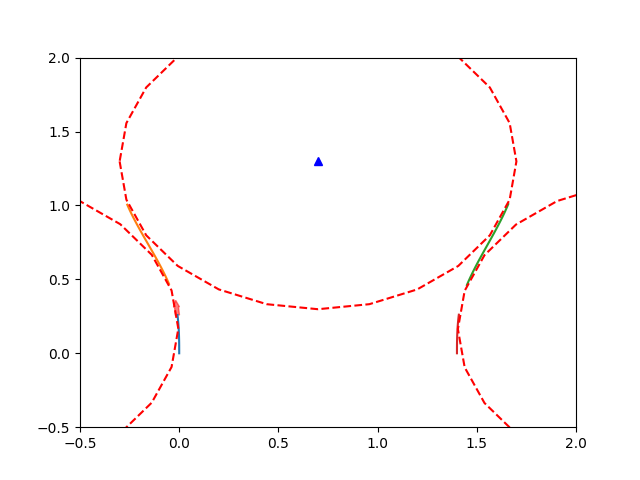
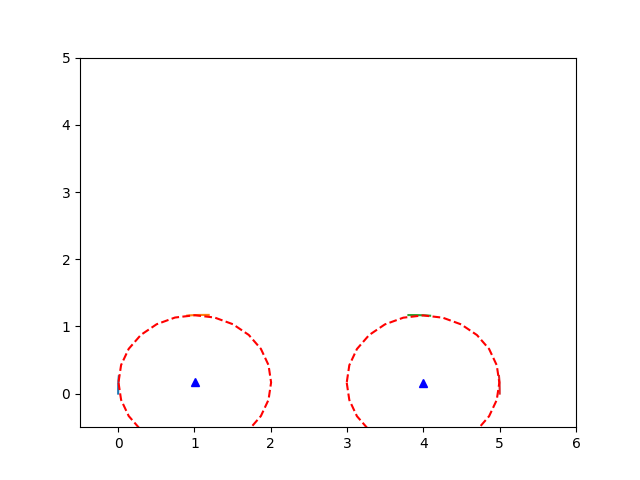
implement pathIntersectsWith

diff --git a/BackmanAlgorithm/SmoothPlanner.py b/BackmanAlgorithm/SmoothPlanner.py
@@ -179,20 +179,22 @@ class SmoothPathPlanner:
 
         #Note here that the spiral segments S2 and S3 have not been placed yet, so these centers can tell us relative displacement, they cannot give us position of the center (C2) CC segment. 
 
-        omega_k = np.array(
+        self.omega_k = np.array(
             [S1[-1][0] - (k_C1**-1)*sin(S1[-1][2]), S1[-1][1] + (k_C1**-1)*cos(S1[-1][2])]) #center of turning of C1
-        omega_kplus2 = np.array(
+        self.omega_kplus2 = np.array(
             [S4[0][0] - (k_C3**-1)*sin(S4[0][2]), S4[0][1] + (k_C3**-1)*cos(S4[0][2])]) #center of turning of C3
 
         rk = cos(S2[-1][2]) * (omega_S2_tS2[1] - S2[-1][1]) - sin(S2[-1][2]) * (omega_S2_tS2[0] - S2[-1][0])
 
         rkplus1 = cos(S3[0][2]) * (omega_S3_tC3[1] - S3[0][1]) - sin(S3[0][2]) * (omega_S3_tC3[0] - S3[0][0])
 
-        d = np.linalg.norm(omega_kplus2 - omega_k)
+        d = np.linalg.norm(self.omega_kplus2 - self.omega_k)
 
         w = np.arcsin((rkplus1 - rk)/d)
 
-        return np.angle(omega_kplus2 - omega_k) - w #phi
+        vec = self.omega_kplus2 - self.omega_k
+
+        return np.arctan2(vec[1], vec[0]) - w #phi
 
     def calculateConstantArcs(self):
         """
@@ -293,7 +295,7 @@ class SmoothPathPlanner:
             ################ generate second conneting spiral ################
             K_S2 = self.generateCurvatureTrajectory(self.k_C1, self.k_C2, 0)
             xo = [0, 0, 0]
-
+            #TODO: special circumstance where K trajectory is not long enough to allow for changes to velocity, in this case extend K trajectory by adding zeros to end.
             if self.reverse:
                 v_S2 = self.generateSpeedTrajectory(self.headlandSpeed, 0, 0)
                 v_S2 = np.append(v_S2, self.generateSpeedTrajectory(
@@ -309,8 +311,6 @@ class SmoothPathPlanner:
                     extend_v_S2 = np.array([[v_S1[-1][0], 0]
                                             for i in range(len(K_S2) - len_v_S2)])
                     v_S2 = np.append(v_S2, extend_v_S2, axis=0)
-                    # print(len(v_S2))
-                    # print(len(K_S2))
                 else:
                     v_S2 = np.array([[v_C1, 0] for i in range(len(K_S2))])
 
@@ -318,8 +318,9 @@ class SmoothPathPlanner:
 
             ################ generate thrid connecting spiral ################
             K_S3 = self.generateCurvatureTrajectory(self.k_C2, self.k_C3, 0)
-
+            #TODO: special circumstance where K trajectory is not long enough to allow for changes to velocity, in this case extend K trajectory by adding zeros to end.
             if self.reverse:
+                
                 v_S3 = self.generateSpeedTrajectory(self.headlandSpeedReverse, 0, 0)
                 v_S3 = np.append(v_S3, self.generateSpeedTrajectory(
                     0, self.headlandSpeed, v_S3[-1][1]), axis=0)
@@ -340,16 +341,17 @@ class SmoothPathPlanner:
                 self.S3 = SpiralSegment(K_S3, v_S3, xo)
 
             ################ generate center CC segment ################
-            if np.abs(self.k_C2) > 0.05:  # center is an arc
+            if np.abs(self.k_C2) > 0.005:  # center is an arc
                 omega_C2 = self.calculateConstantArcs()
 
                 if omega_C2.all() == False: #if calculating center arc fails
                     return False
                 
                 ################ place S2 and S3 segments ################
+                # TODO: fix the issue with r being from origin if it causes issues
                 self.S2.placePath(self.S1.poses[-1][0], self.S1.poses[-1][1], self.S1.poses[-1][2])
                 omega_S2_tC2 = np.array([self.S2.poses[-1][0] - self.k_C2**-1 *sin(self.S2.poses[-1][2]), self.S2.poses[-1][1] + self.k_C2**-1*cos(self.S2.poses[-1][2])])
-                r = np.linalg.norm(np.array([self.S2.poses[-1][0] + omega_S2_tC2[0] ,self.S2.poses[-1][1] +  omega_S2_tC2[1]]))
+                r = np.linalg.norm(np.array([self.S2.poses[-1][0] + omega_S2_tC2[0]-self.omega_k[0],self.S2.poses[-1][1] +  omega_S2_tC2[1]-self.omega_k[1]]))
                 rotAngle = r*(np.arccos(self.omega_kplus1[0]/r) - np.arccos(omega_S2_tC2[0]/r))
                 self.S2.rotateAboutPoint(self.omega_k[0], self.omega_k[1], rotAngle)
 
@@ -359,11 +361,36 @@ class SmoothPathPlanner:
                 rotAngle = -r*(np.arccos(self.omega_kplus1[0]/r) - np.arccos(omega_S2_tC2[0]/r))
                 self.S3.rotateAboutPoint(self.omega_kplus2[0], self.omega_kplus2[1], rotAngle)
 
+                ################ make C2 segment ################
+
+                #self.C2 = CCSegment(self.k_C2, self.S2[-1], self.S3[0])
+
 
 
 
             else: #center is a line
+
+                ################ place S2 and S3 segments ################
                 self.phi_C2 = self.calculateCenterLine()
+                self.S2.placePath(self.S1.poses[-1][0], self.S1.poses[-1][1], self.S1.poses[-1][2])
+                rotAngle = -1*self.phi_C2 - self.S2.poses[-1][2]
+                self.S2.rotateAboutPoint(self.omega_k[0], self.omega_k[1], rotAngle)
+
+                self.S3.placePath(self.S4.poses[0][0], self.S4.poses[0][1], self.S4.poses[0][2], False)
+                rotAngle = self.phi_C2 - self.S3.poses[0][2]
+                self.S3.rotateAboutPoint(self.omega_kplus2[0], self.omega_kplus2[1], rotAngle)
+
+                #check if they intersect
+                print(self.S2.pathIntersectsWith(self.S3))
+
+                ################ make C2 segment ################
+
+
+
+
+
+
+
 
 
             self.path_is_not_feasible = False
@@ -375,16 +402,16 @@ class SmoothPathPlanner:
         plt.plot([i[0] for i in self.S4.poses], [i[1] for i in self.S4.poses])
 
         plt.plot(self.omega_k[0], self.omega_k[1], 'b^')
-        plt.plot(self.omega_kplus1[0], self.omega_kplus1[1], 'b^')
+        # plt.plot(self.omega_kplus1[0], self.omega_kplus1[1], 'b^')
         plt.plot(self.omega_kplus2[0], self.omega_kplus2[1], 'b^')
 
         plt.plot([(self.k_C1**-1)*cos(theta) + self.omega_k[0] for theta in np.linspace(0, 2*np.pi, 25)],
-                 [(self.k_C1**-1)*sin(theta) + self.omega_k[1] for theta in np.linspace(0, 2*np.pi, 25)], 'r--')
-        plt.plot([(self.k_C2**-1)*cos(theta) + self.omega_kplus1[0] for theta in np.linspace(0, 2*np.pi, 25)],
-                 [(self.k_C2**-1)*sin(theta) + self.omega_kplus1[1] for theta in np.linspace(0, 2*np.pi, 25)], 'r--')
+                  [(self.k_C1**-1)*sin(theta) + self.omega_k[1] for theta in np.linspace(0, 2*np.pi, 25)], 'r--')
+        # plt.plot([(self.k_C2**-1)*cos(theta) + self.omega_kplus1[0] for theta in np.linspace(0, 2*np.pi, 25)],
+        #          [(self.k_C2**-1)*sin(theta) + self.omega_kplus1[1] for theta in np.linspace(0, 2*np.pi, 25)], 'r--')
         plt.plot([(self.k_C3**-1)*cos(theta) + self.omega_kplus2[0] for theta in np.linspace(0, 2*np.pi, 25)],
-                 [(self.k_C3**-1)*sin(theta) + self.omega_kplus2[1] for theta in np.linspace(0, 2*np.pi, 25)], 'r--')
-        plt.arrow(self.S1.poses[-1][0], self.S1.poses[-1][1], 0.1*cos(self.S1.poses[-1][2]), 0.1*sin(self.S1.poses[-1][2]), length_includes_head = True, width = 0.02, head_width = 0.03, color = 'r', alpha = 0.5)
+                  [(self.k_C3**-1)*sin(theta) + self.omega_kplus2[1] for theta in np.linspace(0, 2*np.pi, 25)], 'r--')
+        # plt.arrow(self.S1.poses[-1][0], self.S1.poses[-1][1], 0.1*cos(self.S1.poses[-1][2]), 0.1*sin(self.S1.poses[-1][2]), length_includes_head = True, width = 0.02, head_width = 0.03, color = 'r', alpha = 0.5)
         
         # for i in range(0, len(self.S2.poses), int(len(self.S2.poses)/10)):
         #     plt.arrow(self.S2.poses[i][0], self.S2.poses[i][1], 0.1*cos(self.S2.poses[i][2]), 0.1*sin(self.S2.poses[i][2]), length_includes_head = True, width = 0.01, head_width = 0.03, color = 'r', alpha = 0.5)
@@ -392,8 +419,8 @@ class SmoothPathPlanner:
         # for i in range(0, len(self.S4.poses), int(len(self.S2.poses)/10)):
         #     plt.arrow(self.S4.poses[i][0], self.S4.poses[i][1], 0.1*cos(self.S4.poses[i][2]), 0.1*sin(self.S4.poses[i][2]), length_includes_head = True, width = 0.01, head_width = 0.03, color = 'r', alpha = 0.5)
 
-        plt.xlim([-0.5, 2])
-        plt.ylim([-0.5, 2])
+        plt.xlim([-0.5, 6])
+        plt.ylim([-0.5, 5])
         plt.savefig("trajectory.png")
 
         return self.path
@@ -403,7 +430,7 @@ def main():
 
     # x pos., ypos., orientation, speed, curvature
     initialState = SmoothPathState(0, 0, 0.5*np.pi, 1, 0)
-    finalState = SmoothPathState(1.4, 0, -0.5*np.pi, 1, 0)
+    finalState = SmoothPathState(5, 0, -0.5*np.pi, 1, 0)
     turningRadius = 1.0  # m
     dT = 0.005
 
@@ -438,7 +465,7 @@ def main():
 
     planSmoothInst = SmoothPathPlanner()
 
-    pathType = LRL
+    pathType = RSR
     planSmoothInst.setConstraints(
         kConstraints, vConstraints, headlandSpeed, headlandSpeedReverse)
     planSmoothInst.setNominalCurvatures(

diff --git a/BackmanAlgorithm/PathSegment.py b/BackmanAlgorithm/PathSegment.py
@@ -1,8 +1,6 @@
 import numpy as np
 from numpy import sin, cos, tan
 import matplotlib.pyplot as plt
-import scipy
-from scipy import integrate
 from scipy.integrate import odeint
 
 class PathSegment: 
@@ -65,6 +63,27 @@ class PathSegment:
         finalPath = rotatedPoints* np.array([[1], [1], [0]]) + (self.poses.T * np.array([[0], [0], [1]])) + np.array([[0], [0], [theta]])
 
         self.poses = finalPath.T
+    
+    def pathIntersectsWith(self, otherPath):
+        """
+        Function returns true if the two paths intersect. This is implemented as a simple bounding box, since paths shouldn't really get very close to each other.
+
+        Output:
+            intersects: True if paths intersect (bool)
+        
+        """
+        leftSideBox1 = np.amin(np.array([i[0] for i in self.poses]))
+        rightSideBox1 = np.amax(np.array([i[0] for i in self.poses]))
+        leftSideBox2 = np.amin(np.array([i[0] for i in otherPath.poses]))
+        rightSideBox2 = np.amax(np.array([i[0] for i in otherPath.poses]))
+        bottomSideBox1 = np.amin(np.array([i[1] for i in self.poses]))
+        topSideBox1 = np.amax(np.array([i[1] for i in self.poses]))
+        bottomSideBox2 = np.amin(np.array([i[1] for i in otherPath.poses]))
+        topSideBox2 = np.amax(np.array([i[1] for i in otherPath.poses]))
+
+        return not (rightSideBox1 < leftSideBox2 or leftSideBox1 > rightSideBox2 or topSideBox1 < bottomSideBox2 or bottomSideBox1 > topSideBox2)
+
+            
 
 class SpiralSegment(PathSegment):
 
@@ -123,5 +142,6 @@ class SpiralSegment(PathSegment):
 
 class CCSegment(PathSegment):
 
-    def __init__(self, curvature, start, end):
-        self.poses = np.array([[0],[0],[0]])
+    def __init__(self, curvature, speed, start, end):
+        if np.abs(curvature) > 0: #arc segment
+            a = 0
